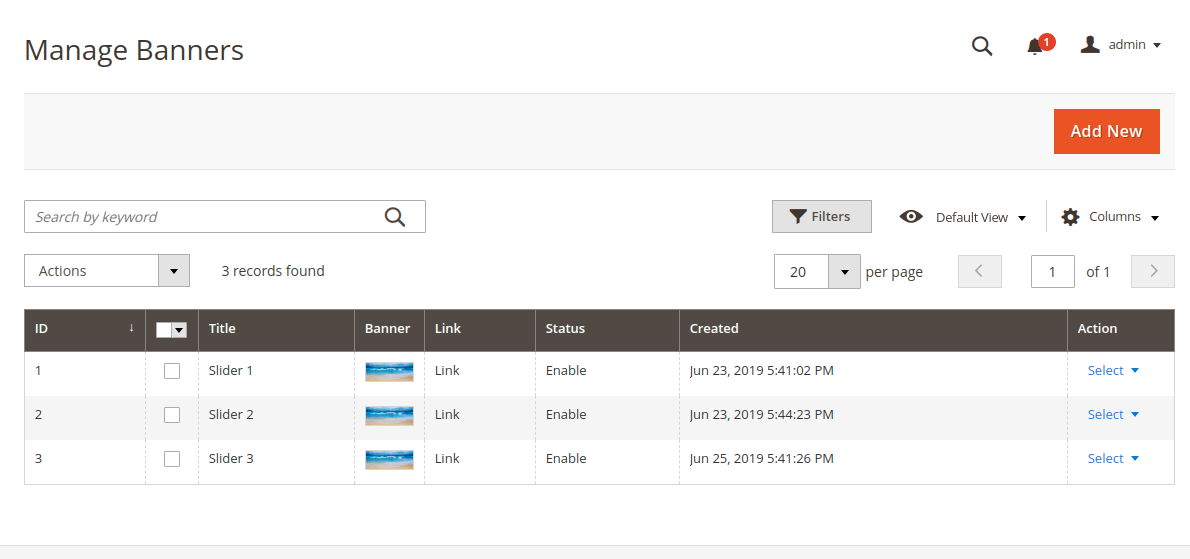
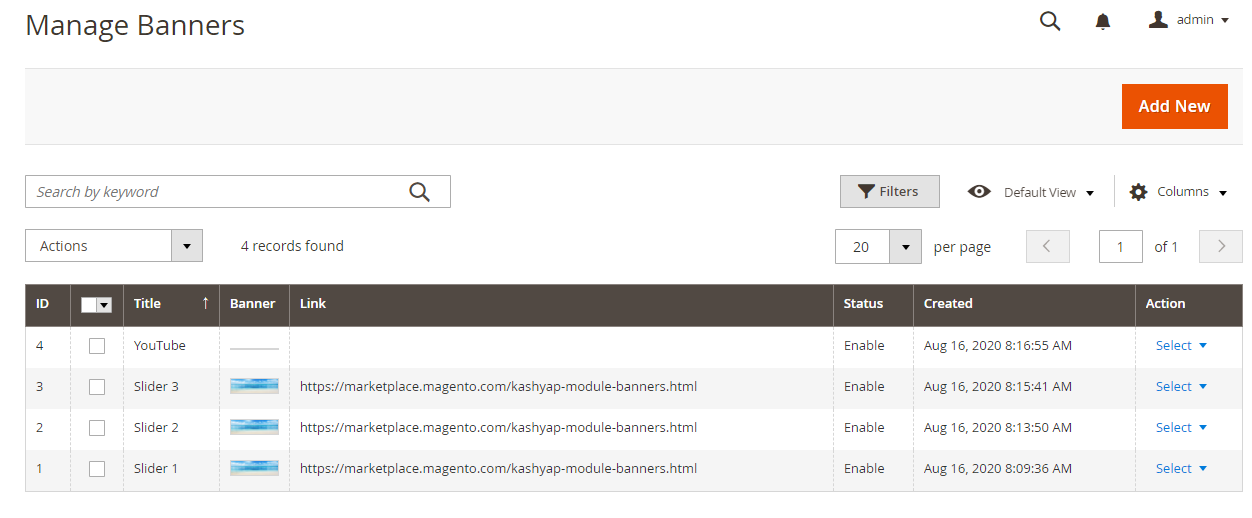
YouTube Functionality

diff --git a/Ui/Component/Listing/Column/BannerImage.php b/Ui/Component/Listing/Column/BannerImage.php
@@ -60,19 +60,23 @@ class BannerImage extends Column
         if (isset($dataSource['data']['items'])) {
             $fieldName = $this->getData('name');
             foreach ($dataSource['data']['items'] as & $item) {
-                $url = '';
-                if ($item[$fieldName] != '') {
-                    $url = $this->storeManager->getStore()->getBaseUrl(
-                        \Magento\Framework\UrlInterface::URL_TYPE_MEDIA
-                    ).$item[$fieldName];
+                if($item[$fieldName]){
+                    $url = '';
+                    if ($item[$fieldName] != '') {
+                        $url = $this->storeManager->getStore()->getBaseUrl(
+                            \Magento\Framework\UrlInterface::URL_TYPE_MEDIA
+                        ).$item[$fieldName];
+                    }
+                    $item[$fieldName . '_src'] = $url;
+                    $item[$fieldName . '_alt'] = $item['title'] ? $item['title'] : '';
+                    $item[$fieldName . '_link'] = $this->urlBuilder->getUrl(
+                        'banners/index/edit',
+                        ['banners_id' => $item['banners_id']]
+                    );
+                    $item[$fieldName . '_orig_src'] = $url;
+                } else {
+                    $item[$fieldName] = "YouTube";
                 }
-                $item[$fieldName . '_src'] = $url;
-                $item[$fieldName . '_alt'] = $item['title'] ? $item['title'] : '';
-                $item[$fieldName . '_link'] = $this->urlBuilder->getUrl(
-                    'banners/index/edit',
-                    ['banners_id' => $item['banners_id']]
-                );
-                $item[$fieldName . '_orig_src'] = $url;
             }
         }
         
